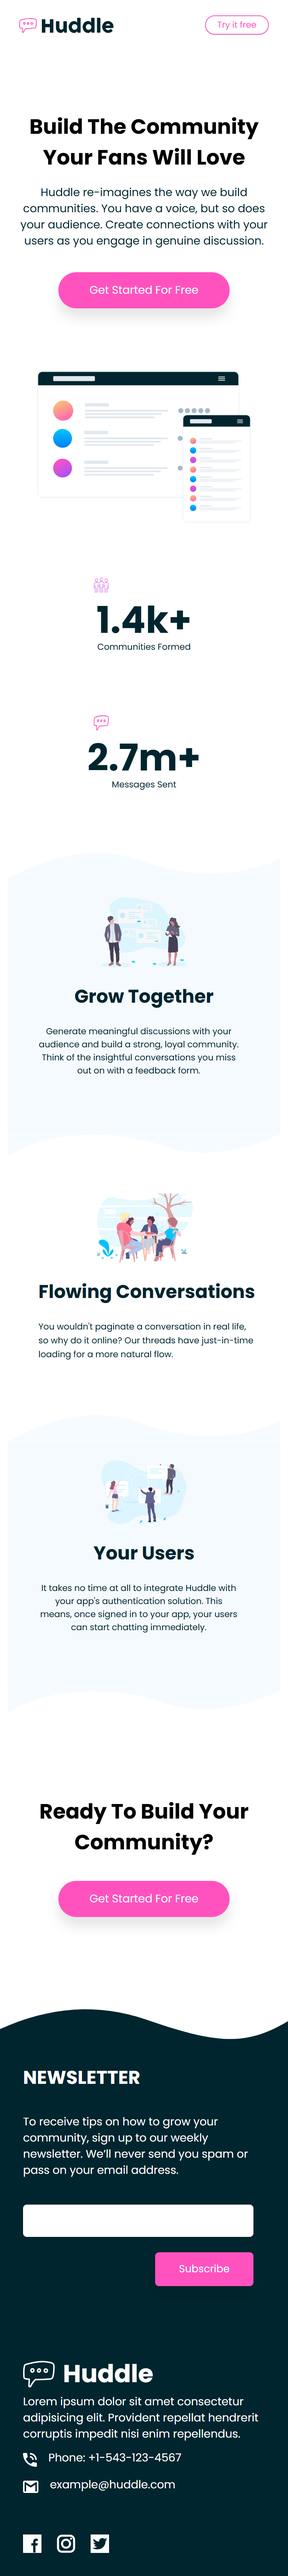
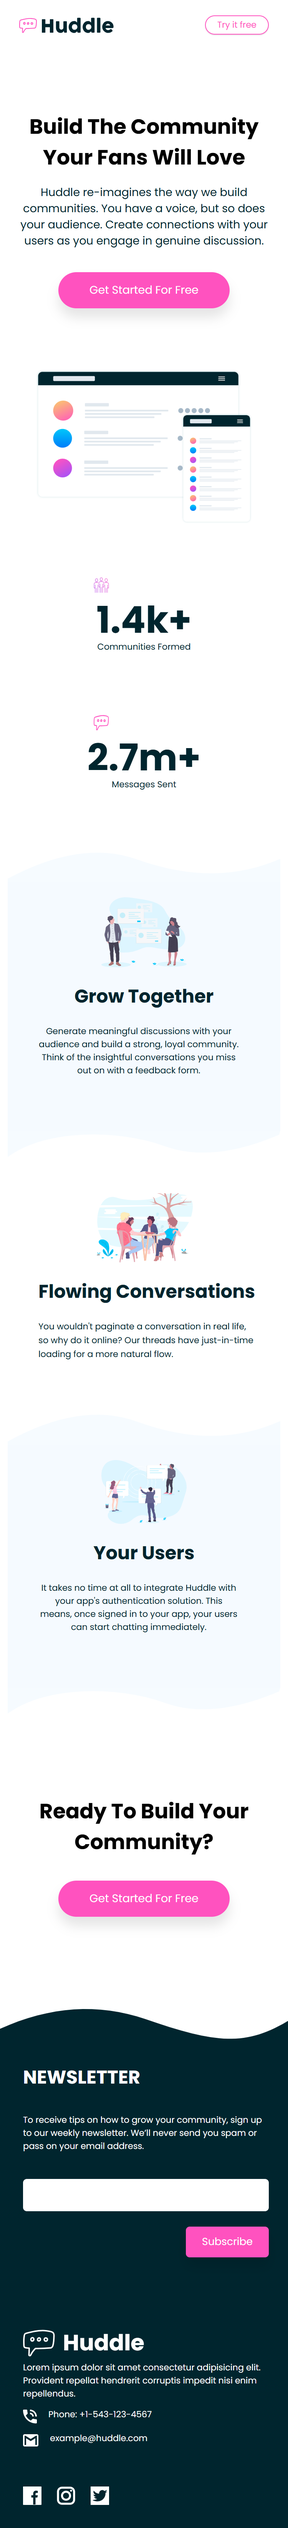
screenshot added

diff --git a/Huddle Assignment/style.css b/Huddle Assignment/style.css
@@ -337,7 +337,6 @@
   }
   
   .footer-content {
-    
     flex-direction: column-reverse;
     padding: 30px;
     text-align: start;
@@ -345,9 +344,8 @@
   }
 
   .footer-content h1 {
-    font-size: 2rem;
+    font-size: 1.8rem;
   }
-
   .footer-right {
     margin-left: 0;
     margin-bottom: 90px;
@@ -355,12 +353,14 @@
   }
   .footer-right button{
     align-self: flex-end;
+    padding: 9px 20px;
   }
   .footer-right input {
-    width: 300px;
-    align-items: end;
+    width: 320px;
   }
-
+  .footer-content p{
+    font-size: 0.7rem;
+  }
   .footer-right-container {
     flex-direction: column;
     gap: 20px;

diff --git a/Huddle Assignment/index.html b/Huddle Assignment/index.html
@@ -131,7 +131,7 @@
             <img src="./images/icon-messages.svg" alt="img" height="35" />
             <h1>Huddle</h1>
           </div>
-          <p>
+          <p class="p">
             Lorem ipsum dolor sit amet consectetur adipisicing elit. Provident
             repellat hendrerit corruptis impedit nisi enim repellendus.
           </p>
